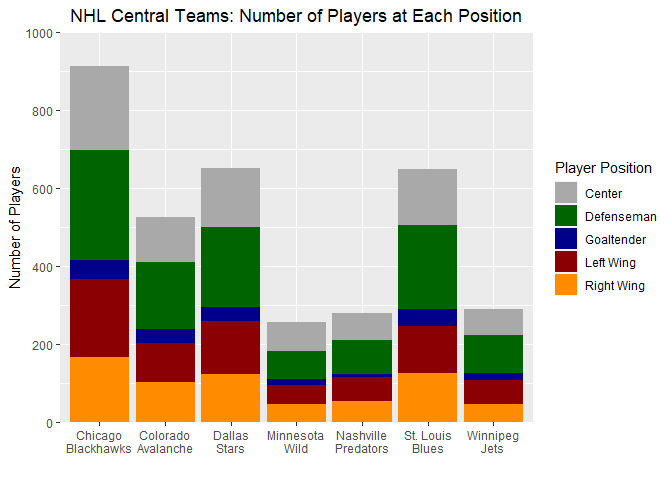
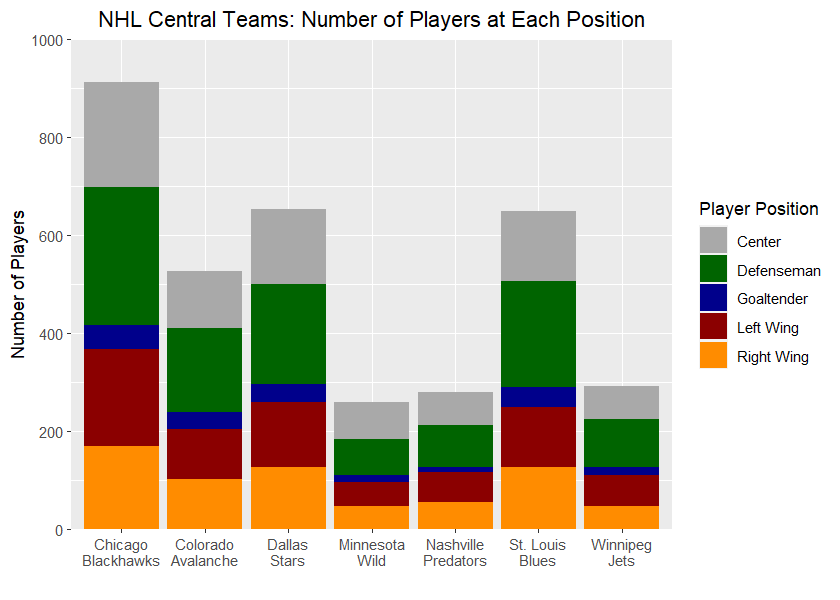
Update size of plots.

diff --git a/README.md b/README.md
@@ -318,7 +318,7 @@ g + geom_point(size = 4, alpha = 0.5) +
   scale_color_manual(values = c("red","blue"))
 ```
 
-![](YunJi_Project1_files/figure-gfm/scatterplot%20-%20Win%20Percent%20vs.%20Starting%20Year-1.png)<!-- -->
+![](YunJi_Project1_files/figure-gfm/scatterplot-1.png)<!-- -->
 
 From the plot, I see that there are many more U.S. teams than Canadian
 teams, which makes sense as the U.S. is more populous. In addition,
